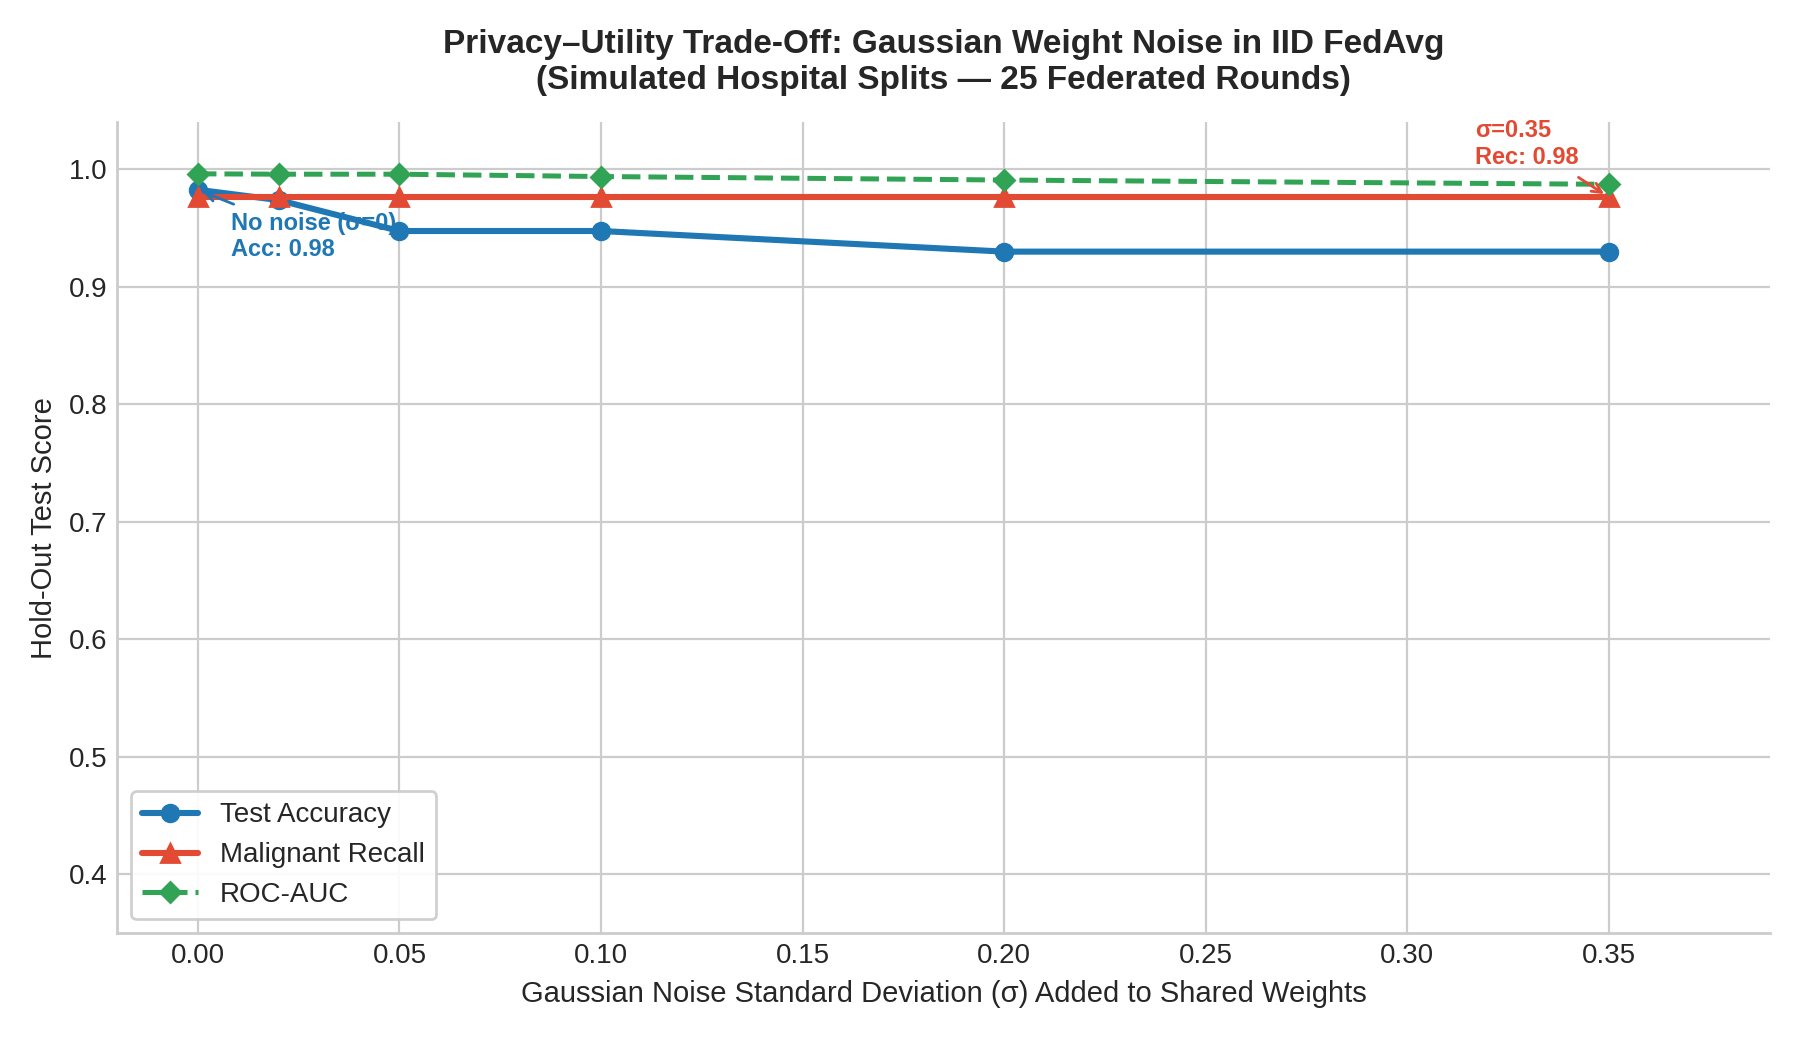
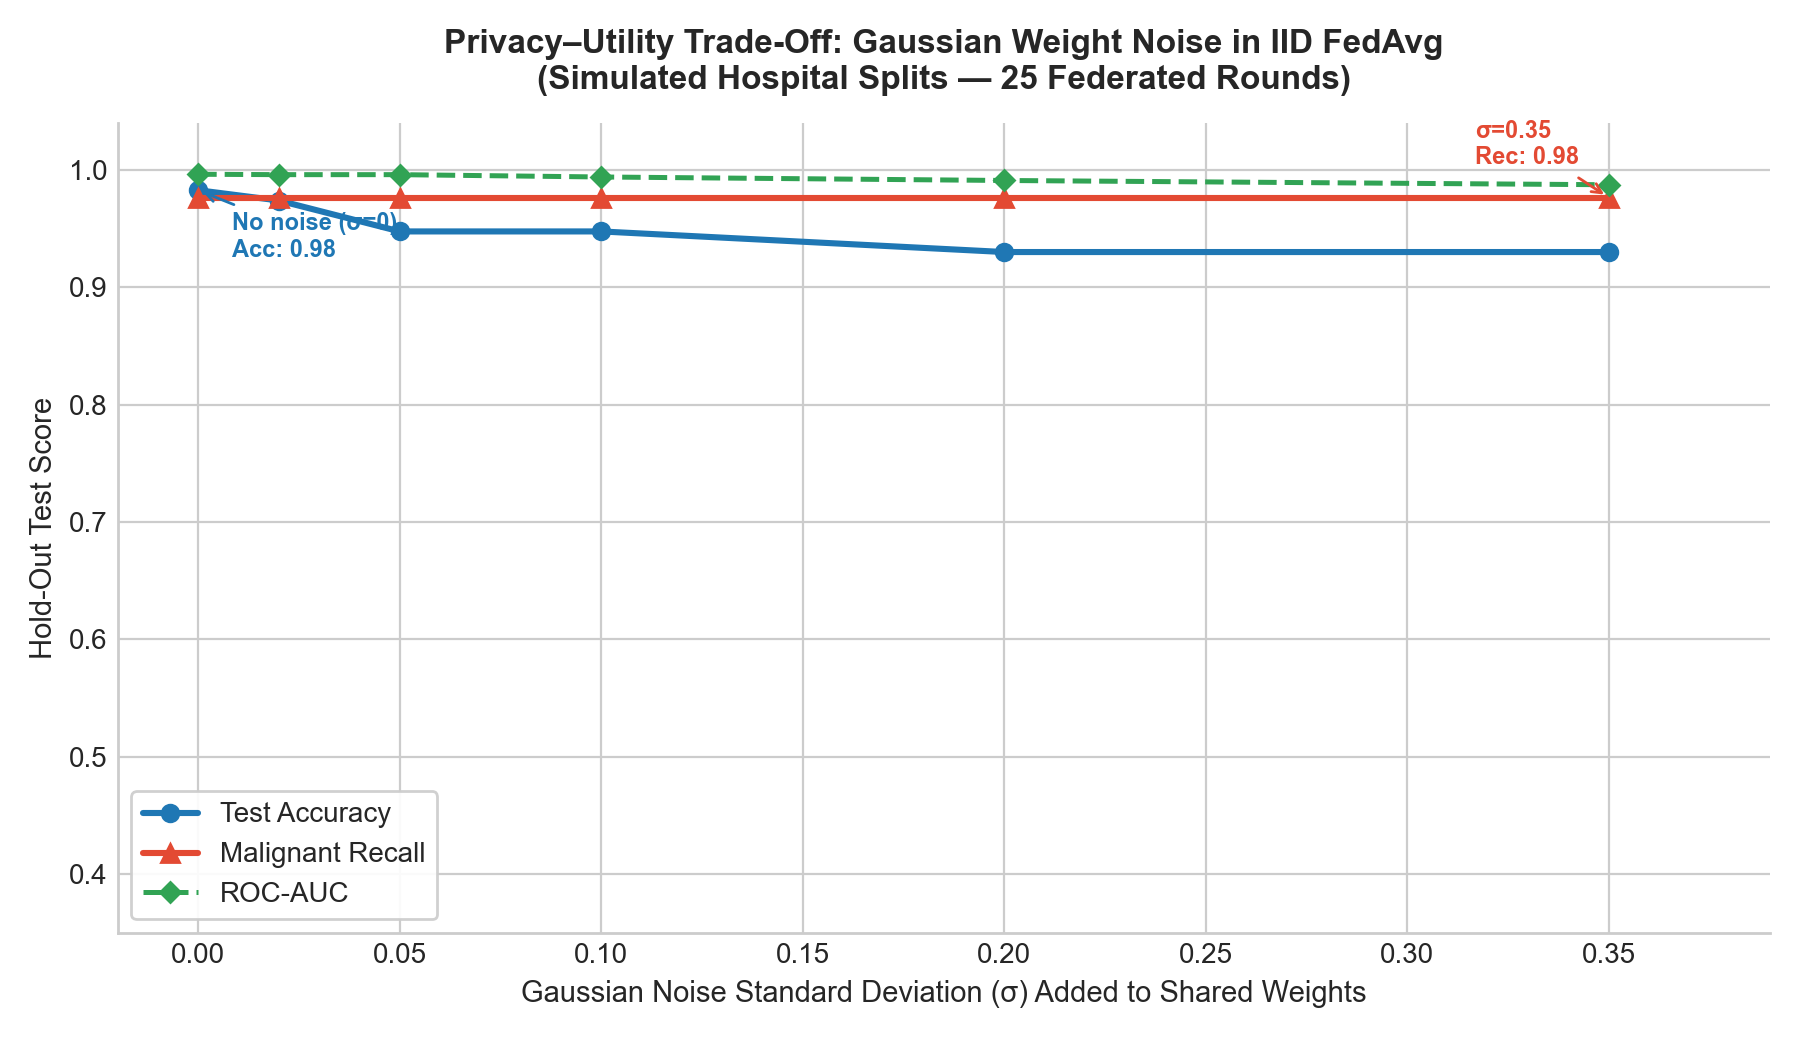
Rewrite README: fix table formatting, add noise results and figures

diff --git a/README.md b/README.md
@@ -1,29 +1,31 @@
 # Simulated Hospital Federated Learning Prototype (Breast Cancer Benchmark)
 
-> **Important Data Disclaimer:** All hospital sites (`Hospital_Sim_1` – `Hospital_Sim_4`) in this project are **simulated** by splitting the public `sklearn.datasets.load_breast_cancer()` benchmark dataset. **No real patient or clinical hospital records are used**, and this prototype is for educational and portfolio demonstration only—not clinical diagnosis.
+> **Data disclaimer:** All hospital sites (`Hospital_Sim_1` to `Hospital_Sim_4`) in this project are **simulated** by splitting the public `sklearn.datasets.load_breast_cancer()` benchmark dataset. **No real patient or clinical hospital records are used.** This prototype is for educational and portfolio purposes only and is not for clinical diagnosis.
 
-## Problem & Goal
+## Problem and Goal
 
-Healthcare organizations often cannot pool raw patient records centrally due to privacy regulations, institutional governance, and data-sharing barriers. The goal of this prototype is to implement **Federated Averaging (FedAvg)** from scratch in `numpy` across **4 simulated hospital sites** without sharing raw patient rows, and compare its performance against:
+Healthcare organizations often cannot pool raw patient records in one place because of privacy regulations, institutional governance, and data-sharing barriers. This prototype implements **Federated Averaging (FedAvg)** from scratch in `numpy` across **4 simulated hospital sites**, without sharing raw patient rows, and compares it against:
 
-1. **Centralized training** (logistic regression on pooled training data).
-2. **Local-only training** (each simulated site training independently on its own split).
+1. **Centralized training:** logistic regression on pooled training data.
+2. **Local-only training:** each simulated site trains independently on its own split.
 
-We evaluate both **IID** (unequal random splits) and **Non-IID** (unequal splits with skewed malignant/benign class balance) partitions on a held-out **20% stratified test set**.
+Both **IID** partitions (unequal random splits) and **non-IID** partitions (unequal splits with skewed malignant/benign balance) are evaluated on a held-out, stratified 20% test set.
 
 ## Method
 
-* **Train / Test Split (`SEED = 42`):** Stratified 80/20 split of `sklearn.datasets.load_breast_cancer()` (`569` samples, `30` numeric features), keeping the 20% test set strictly untouched during training. In scikit-learn's dataset, `target == 0` is **malignant** and `target == 1` is **benign**.
-* **Simulated Hospital Partitions (4 Sites):**
-  * **IID Split:** Random permutation of the training set divided into unequal site sizes (`35%`, `25%`, `25%`, `15%`).
-  * **Non-IID Split:** Unequal site sizes with skewed malignant/benign ratios across sites (e.g., heavily malignant vs. heavily benign splits), including edge cases where a single-class local split can occur.
-* **Privacy-Aware Standardization:** Instead of fitting a scaler on pooled raw patient records, global mean and standard deviation are computed from per-site sample counts, feature sums, and sums of squared deviations around the global mean (summary moments only).
-* **Hand-Written FedAvg (`numpy`):** Over `25` communication rounds (`5` local gradient-descent epochs per round, L2 regularization, learning rate `0.15`), each simulated hospital trains a binary logistic regression model starting from the current global weights `(w, b)`. The server aggregates model parameters weighted by each site's sample count.
-* **Optional Gaussian Weight Noise Experiment:** Zero-mean Gaussian noise ($\mathcal{N}(0, \sigma^2)$) is added to aggregated weights across varying noise levels ($\sigma$) to illustrate the trade-off between weight perturbation and predictive utility.
+- **Train/test split (`SEED = 42`):** stratified 80/20 split of `load_breast_cancer()` (569 samples, 30 numeric features). The test set (114 patients) is never used for training. In scikit-learn's dataset, `target == 0` is malignant and `target == 1` is benign. In the results below, malignant is treated as the positive class.
+- **Simulated hospital partitions (4 sites):**
+  - **IID:** a random permutation of the training set divided into unequal site sizes (35%, 25%, 25%, 15%).
+  - **Non-IID:** unequal site sizes with skewed malignant/benign ratios (some sites mostly malignant, others mostly benign). A site can end up with a single class.
+- **Privacy-aware standardization:** the scaler is not fitted on pooled raw data. The global mean and standard deviation are computed from per-site sample counts, feature sums, and sums of squared deviations around the global mean (summary statistics only).
+- **Hand-written FedAvg (`numpy`):** 25 communication rounds, 5 local gradient-descent epochs per round, L2 regularization, learning rate 0.15. Each site trains a binary logistic regression starting from the current global weights `(w, b)`, and the server averages the parameters weighted by each site's sample count.
+- **Optional Gaussian noise experiment:** zero-mean Gaussian noise N(0, sigma^2) is added to the aggregated global weights at several noise levels to illustrate how weight perturbation affects accuracy.
 
 ## Results
 
-*| Model / Setup                   | Data Split          | Test Accuracy | Malignant Recall | ROC-AUC |
+Single stratified split (seed 42), 114 test patients. Malignant is the positive class.
+
+| Model / Setup                   | Data Split          | Test Accuracy | Malignant Recall | ROC-AUC |
 | ------------------------------- | ------------------- | ------------- | ---------------- | ------- |
 | Centralized Logistic Regression | Pooled train        | 0.9825        | 0.9762           | 0.9954  |
 | FedAvg                          | IID (simulated)     | 0.9825        | 0.9762           | 0.9960  |
@@ -35,31 +37,72 @@ We evaluate both **IID** (unequal random splits) and **Non-IID** (unequal splits
 | Local only, Site 1              | Non-IID             | 0.7982        | 1.0000           | 0.9888  |
 | Local only, Site 2              | Non-IID             | 0.9737        | 0.9286           | 0.9960  |
 | Local only, Site 3              | Non-IID             | 0.9737        | 0.9762           | 0.9957  |
-| Local only, Site 4              | Non-IID             | 0.6316        | 0.0000           | N/A*    |
+| Local only, Site 4              | Non-IID             | 0.6316        | 0.0000           | N/A †   |
 
-*Site 4's non-IID split contained only one class, so the local model never saw a malignant case.
-Single stratified split (seed 42), 114 test patients.
+† Site 4's non-IID split contained only one class, so its local model never saw a malignant case and ROC-AUC could not be computed. Its accuracy (0.6316) equals the share of benign patients in the test set, which is what a model that predicts "benign" for everyone would score.
 
-### Generated Figures
+**What stands out:** with non-IID data, sites that train alone can fail badly (Site 4 detected 0% of malignant cases, and Site 1 reached only 79.8% accuracy), while federated training reached 0.9762 malignant recall without sharing raw patient rows. On this single split, federated and centralized training score the same. One test patient is worth about 0.9 percentage points of accuracy, so small differences between methods are not meaningful.
 
-* `figures/iid_vs_noniid_round_accuracy.png` — Hold-out test accuracy across federated rounds for IID vs. Non-IID simulated hospitals compared to the centralized baseline.
-* `figures/model_comparison_metrics.png` — Comparison of Accuracy, Malignant Recall, and ROC-AUC across centralized, federated, and local-only simulated sites.
-* `figures/dp_noise_tradeoff.png` — Effect of adding Gaussian noise ($\sigma$) to shared weights on test accuracy, malignant recall, and ROC-AUC.
+### Noise experiment (IID sites, one run per noise level)
 
-## Key Takeaways & Remaining Privacy Risks
+| Noise sigma | Test Accuracy | Malignant Recall | ROC-AUC |
+| ----------- | ------------- | ---------------- | ------- |
+| 0.00        | 0.9825        | 0.9762           | 0.9960  |
+| 0.02        | 0.9737        | 0.9762           | 0.9957  |
+| 0.05        | 0.9474        | 0.9762           | 0.9957  |
+| 0.10        | 0.9474        | 0.9762           | 0.9937  |
+| 0.20        | 0.9298        | 0.9762           | 0.9907  |
+| 0.35        | 0.9298        | 0.9762           | 0.9871  |
 
-* **When FedAvg matches centralized training:** Under IID partitions with a convex/smooth model like logistic regression and well-chosen learning rate and local epoch count, FedAvg closely tracks centralized performance.
-* **What is lost under Non-IID data:** Skewed class distributions cause local updates to drift in conflicting directions ("client drift"), which can slow convergence, reduce overall accuracy, or hurt recall on the malignant class—where missed malignant cases (false negatives) are critical.
-* **Privacy risks that remain:** Sharing model parameters or summary statistics instead of raw patient tables **does not guarantee privacy**. Updates can still leak sensitive information via gradient/model inversion, membership inference, or class-distribution cues. Plain FedAvg lacks formal differential privacy guarantees or secure aggregation unless combined with gradient clipping, calibrated noise (e.g., DP-SGD), and cryptographic aggregation.
+Accuracy falls from 0.9825 to 0.9298 as noise increases, while malignant recall stays at 0.9762 and ROC-AUC changes only slightly. Each noise level was run once, so differences of one or two patients should not be over-interpreted.
+
+### Figures
+
+![Test accuracy per federated round, IID vs non-IID](figures/iid_vs_noniid_round_accuracy.png)
+
+*Hold-out test accuracy across federated rounds for IID and non-IID simulated hospitals, compared with the centralized baseline.*
+
+![Model comparison](figures/model_comparison_metrics.png)
+
+*Accuracy, malignant recall, and ROC-AUC for centralized, federated, and local-only models.*
+
+![Accuracy versus noise](figures/noise_tradeoff.png)
+
+*Effect of Gaussian noise on the shared weights on test accuracy, malignant recall, and ROC-AUC.*
+
+## Key Takeaways and Remaining Privacy Risks
+
+- **Measured here:** on this split, FedAvg matched centralized training on both IID and non-IID partitions, and clearly outperformed local-only training on the skewed sites. For logistic regression, which is a convex model, non-IID data did not hurt FedAvg in this experiment.
+- **Background, not shown by this experiment:** with harder, non-convex models, skewed class distributions can cause local updates to drift in conflicting directions ("client drift"), which can slow convergence or reduce accuracy.
+- **Privacy risks that remain:** sharing model parameters or summary statistics instead of raw rows **does not guarantee privacy**. Updates can still leak information through model inversion, membership inference, or class-distribution cues. Plain FedAvg has no formal differential privacy guarantee or secure aggregation unless it is combined with update clipping, calibrated noise (for example DP-SGD), and cryptographic aggregation.
 
 ## Limitations
 
-* **Simulated dataset & partitions:** The 4 hospitals are synthetic splits of a single public dataset (`569` rows total), not real multi-center clinical cohorts with domain shift, missingness, or varying EHR schemas.
-* **Simple linear model:** Logistic regression is fast and transparent for a prototype, but non-linear clinical models (e.g., neural networks or gradient-boosted trees) behave differently under non-IID skew.
-* **Heuristic noise vs. formal DP:** Adding Gaussian noise to aggregated weights demonstrates a qualitative privacy–utility trade-off, not a formal $(\varepsilon, \delta)$-differential privacy bound.
+- **Simulated data and partitions:** the 4 hospitals are splits of one public dataset (569 rows), not real multi-center cohorts with domain shift, missing data, or different record formats.
+- **Single split:** results come from one train/test split with 114 test patients, so they are noisy. Repeating the experiment over many random splits would give more reliable estimates.
+- **Simple model:** logistic regression is fast and transparent, but non-linear models behave differently under non-IID skew.
+- **Noise is not differential privacy:** adding Gaussian noise to the aggregated weights illustrates a privacy-accuracy trade-off. It is not a formal (epsilon, delta) differential privacy guarantee, and it perturbs only the global model, not each site's update before sharing.
+
+## Planned Improvements
+
+- Evaluate over 20 random splits and report mean and standard deviation.
+- Add a centralized baseline that uses the same optimizer and number of epochs.
+- Add noise to each site's update before sharing, and average over multiple noise seeds.
+- Try FedProx as a remedy for non-IID drift.
 
 ## How to Run
 
-1. Open `federated_breast_cancer.ipynb` in Jupyter Notebook or Google Colab.
-2. Run all cells in order (`Shift + Enter`).
-3. Inspect the printed metrics and generated plots in `figures/`.
+1. Clone the repository and install the dependencies:
+   ```bash
+   git clone https://github.com/UsmanUmair1/fedavg-breast-cancer-sim.git
+   cd fedavg-breast-cancer-sim
+   pip install -r requirements.txt
+   ```
+2. Open `federated_breast_cancer.ipynb` in Jupyter, VS Code, or Google Colab.
+3. Run all cells in order. The printed metrics will match the tables above (seed 42), and the figures are saved to `figures/`.
+
+## Repository Contents
+
+- `federated_breast_cancer.ipynb`: the full experiment
+- `requirements.txt`: Python dependencies
+- `figures/`: generated plots
